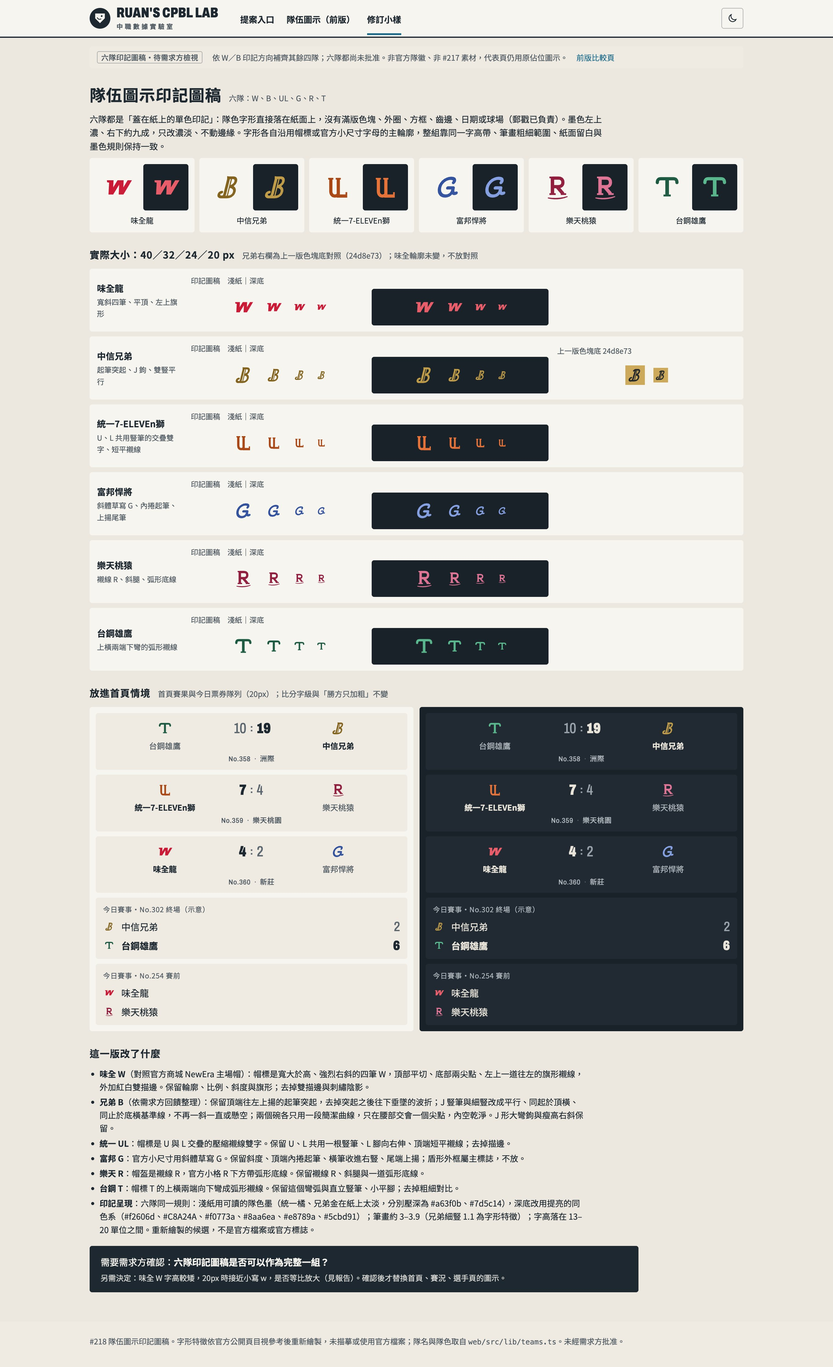
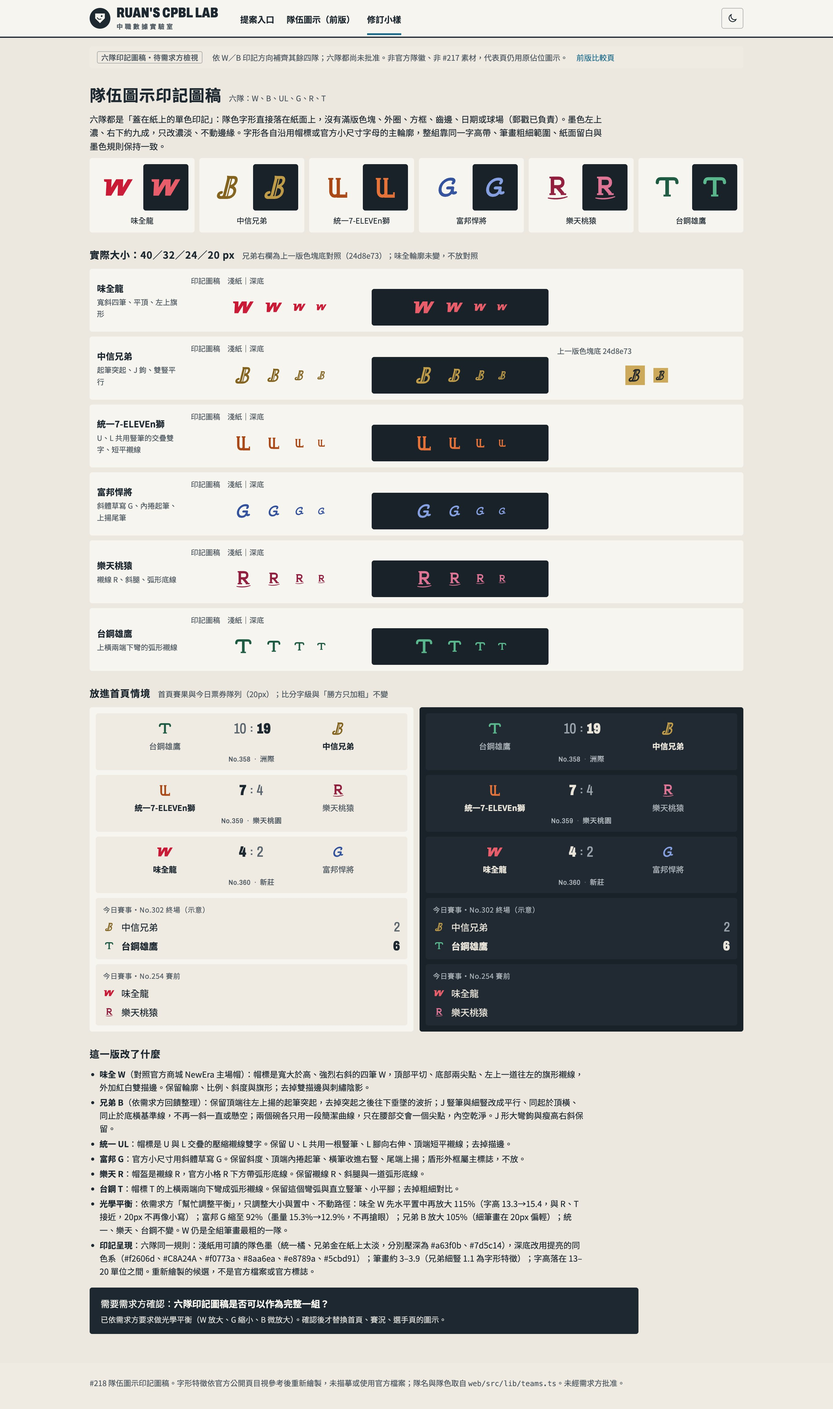
docs: optically balance #218 team stamp sizes
需求方要求調整六隊印記平衡（W 偏小、G 偏重）。只包一層尺寸／置中 transform、不動路徑與墨色：
W 水平置中後放大 115%（字高 13.3→15.4）、G 縮至 92%（墨量 15.3%→12.9%）、B 放大 105%
（細筆畫在 20px 偏輕）；UL、R、T 不變。比較頁 SVG 引用加版本參數避免舊快取，並補平衡說明。

diff --git a/design/brand-218/proposal/team-icons-refined.html b/design/brand-218/proposal/team-icons-refined.html
@@ -87,44 +87,44 @@
   <div class="sh"><h1>隊伍圖示印記圖稿</h1><span class="cue">六隊：W、B、UL、G、R、T</span></div>
   <p class="lead">六隊都是「蓋在紙上的單色印記」：隊色字形直接落在紙面上，沒有滿版色塊、外圈、方框、齒邊、日期或球場（郵戳已負責）。墨色左上濃、右下約九成，只改濃淡、不動邊緣。字形各自沿用帽標或官方小尺寸字母的主輪廓，整組靠同一字高帶、筆畫粗細範圍、紙面留白與墨色規則保持一致。</p>
 
-  <div class="six"><figure><div class="pair2"><div class="sw-light"><svg class="ic s56 st-wc" role="img" aria-label="味全龍 印記圖稿"><use href="assets/team-icons/refined-AAA011.svg#mark"/></svg></div><div class="sw-dark"><svg class="ic s56 st-wc" aria-hidden="true"><use href="assets/team-icons/refined-AAA011.svg#mark"/></svg></div></div><figcaption>味全龍</figcaption></figure><figure><div class="pair2"><div class="sw-light"><svg class="ic s56 st-br" role="img" aria-label="中信兄弟 印記圖稿"><use href="assets/team-icons/refined-ACN011.svg#mark"/></svg></div><div class="sw-dark"><svg class="ic s56 st-br" aria-hidden="true"><use href="assets/team-icons/refined-ACN011.svg#mark"/></svg></div></div><figcaption>中信兄弟</figcaption></figure><figure><div class="pair2"><div class="sw-light"><svg class="ic s56 st-ul" role="img" aria-label="統一7-ELEVEn獅 印記圖稿"><use href="assets/team-icons/refined-ADD011.svg#mark"/></svg></div><div class="sw-dark"><svg class="ic s56 st-ul" aria-hidden="true"><use href="assets/team-icons/refined-ADD011.svg#mark"/></svg></div></div><figcaption>統一7-ELEVEn獅</figcaption></figure><figure><div class="pair2"><div class="sw-light"><svg class="ic s56 st-fg" role="img" aria-label="富邦悍將 印記圖稿"><use href="assets/team-icons/refined-AEO011.svg#mark"/></svg></div><div class="sw-dark"><svg class="ic s56 st-fg" aria-hidden="true"><use href="assets/team-icons/refined-AEO011.svg#mark"/></svg></div></div><figcaption>富邦悍將</figcaption></figure><figure><div class="pair2"><div class="sw-light"><svg class="ic s56 st-rm" role="img" aria-label="樂天桃猿 印記圖稿"><use href="assets/team-icons/refined-AJL011.svg#mark"/></svg></div><div class="sw-dark"><svg class="ic s56 st-rm" aria-hidden="true"><use href="assets/team-icons/refined-AJL011.svg#mark"/></svg></div></div><figcaption>樂天桃猿</figcaption></figure><figure><div class="pair2"><div class="sw-light"><svg class="ic s56 st-tsg" role="img" aria-label="台鋼雄鷹 印記圖稿"><use href="assets/team-icons/refined-AKP011.svg#mark"/></svg></div><div class="sw-dark"><svg class="ic s56 st-tsg" aria-hidden="true"><use href="assets/team-icons/refined-AKP011.svg#mark"/></svg></div></div><figcaption>台鋼雄鷹</figcaption></figure></div>
+  <div class="six"><figure><div class="pair2"><div class="sw-light"><svg class="ic s56 st-wc" role="img" aria-label="味全龍 印記圖稿"><use href="assets/team-icons/refined-AAA011.svg?v=bal1#mark"/></svg></div><div class="sw-dark"><svg class="ic s56 st-wc" aria-hidden="true"><use href="assets/team-icons/refined-AAA011.svg?v=bal1#mark"/></svg></div></div><figcaption>味全龍</figcaption></figure><figure><div class="pair2"><div class="sw-light"><svg class="ic s56 st-br" role="img" aria-label="中信兄弟 印記圖稿"><use href="assets/team-icons/refined-ACN011.svg?v=bal1#mark"/></svg></div><div class="sw-dark"><svg class="ic s56 st-br" aria-hidden="true"><use href="assets/team-icons/refined-ACN011.svg?v=bal1#mark"/></svg></div></div><figcaption>中信兄弟</figcaption></figure><figure><div class="pair2"><div class="sw-light"><svg class="ic s56 st-ul" role="img" aria-label="統一7-ELEVEn獅 印記圖稿"><use href="assets/team-icons/refined-ADD011.svg?v=bal1#mark"/></svg></div><div class="sw-dark"><svg class="ic s56 st-ul" aria-hidden="true"><use href="assets/team-icons/refined-ADD011.svg?v=bal1#mark"/></svg></div></div><figcaption>統一7-ELEVEn獅</figcaption></figure><figure><div class="pair2"><div class="sw-light"><svg class="ic s56 st-fg" role="img" aria-label="富邦悍將 印記圖稿"><use href="assets/team-icons/refined-AEO011.svg?v=bal1#mark"/></svg></div><div class="sw-dark"><svg class="ic s56 st-fg" aria-hidden="true"><use href="assets/team-icons/refined-AEO011.svg?v=bal1#mark"/></svg></div></div><figcaption>富邦悍將</figcaption></figure><figure><div class="pair2"><div class="sw-light"><svg class="ic s56 st-rm" role="img" aria-label="樂天桃猿 印記圖稿"><use href="assets/team-icons/refined-AJL011.svg?v=bal1#mark"/></svg></div><div class="sw-dark"><svg class="ic s56 st-rm" aria-hidden="true"><use href="assets/team-icons/refined-AJL011.svg?v=bal1#mark"/></svg></div></div><figcaption>樂天桃猿</figcaption></figure><figure><div class="pair2"><div class="sw-light"><svg class="ic s56 st-tsg" role="img" aria-label="台鋼雄鷹 印記圖稿"><use href="assets/team-icons/refined-AKP011.svg?v=bal1#mark"/></svg></div><div class="sw-dark"><svg class="ic s56 st-tsg" aria-hidden="true"><use href="assets/team-icons/refined-AKP011.svg?v=bal1#mark"/></svg></div></div><figcaption>台鋼雄鷹</figcaption></figure></div>
 
   <div class="sh s"><h2>實際大小：40／32／24／20 px</h2><span class="cue">兄弟右欄為上一版色塊底對照（24d8e73）；味全輪廓未變，不放對照</span></div>
   <div class="trows">
     <div class="trow"><div class="who"><b>味全龍</b><span>寬斜四筆、平頂、左上旗形</span></div>
-      <div class="set" data-set="印記圖稿　淺紙｜深底"><div class="pair"><div class="strip sw-light"><svg class="ic s40 st-wc" role="img" aria-label="味全龍 印記圖稿 40px"><use href="assets/team-icons/refined-AAA011.svg#mark"/></svg><svg class="ic s32 st-wc" role="img" aria-label="味全龍 印記圖稿 32px"><use href="assets/team-icons/refined-AAA011.svg#mark"/></svg><svg class="ic s24 st-wc" role="img" aria-label="味全龍 印記圖稿 24px"><use href="assets/team-icons/refined-AAA011.svg#mark"/></svg><svg class="ic s20 st-wc" role="img" aria-label="味全龍 印記圖稿 20px"><use href="assets/team-icons/refined-AAA011.svg#mark"/></svg></div><div class="strip sw-dark"><svg class="ic s40 st-wc" aria-hidden="true"><use href="assets/team-icons/refined-AAA011.svg#mark"/></svg><svg class="ic s32 st-wc" aria-hidden="true"><use href="assets/team-icons/refined-AAA011.svg#mark"/></svg><svg class="ic s24 st-wc" aria-hidden="true"><use href="assets/team-icons/refined-AAA011.svg#mark"/></svg><svg class="ic s20 st-wc" aria-hidden="true"><use href="assets/team-icons/refined-AAA011.svg#mark"/></svg></div></div></div>
+      <div class="set" data-set="印記圖稿　淺紙｜深底"><div class="pair"><div class="strip sw-light"><svg class="ic s40 st-wc" role="img" aria-label="味全龍 印記圖稿 40px"><use href="assets/team-icons/refined-AAA011.svg?v=bal1#mark"/></svg><svg class="ic s32 st-wc" role="img" aria-label="味全龍 印記圖稿 32px"><use href="assets/team-icons/refined-AAA011.svg?v=bal1#mark"/></svg><svg class="ic s24 st-wc" role="img" aria-label="味全龍 印記圖稿 24px"><use href="assets/team-icons/refined-AAA011.svg?v=bal1#mark"/></svg><svg class="ic s20 st-wc" role="img" aria-label="味全龍 印記圖稿 20px"><use href="assets/team-icons/refined-AAA011.svg?v=bal1#mark"/></svg></div><div class="strip sw-dark"><svg class="ic s40 st-wc" aria-hidden="true"><use href="assets/team-icons/refined-AAA011.svg?v=bal1#mark"/></svg><svg class="ic s32 st-wc" aria-hidden="true"><use href="assets/team-icons/refined-AAA011.svg?v=bal1#mark"/></svg><svg class="ic s24 st-wc" aria-hidden="true"><use href="assets/team-icons/refined-AAA011.svg?v=bal1#mark"/></svg><svg class="ic s20 st-wc" aria-hidden="true"><use href="assets/team-icons/refined-AAA011.svg?v=bal1#mark"/></svg></div></div></div>
     </div>
     <div class="trow"><div class="who"><b>中信兄弟</b><span>起筆突起、J 鉤、雙豎平行</span></div>
-      <div class="set" data-set="印記圖稿　淺紙｜深底"><div class="pair"><div class="strip sw-light"><svg class="ic s40 st-br" role="img" aria-label="中信兄弟 印記圖稿 40px"><use href="assets/team-icons/refined-ACN011.svg#mark"/></svg><svg class="ic s32 st-br" role="img" aria-label="中信兄弟 印記圖稿 32px"><use href="assets/team-icons/refined-ACN011.svg#mark"/></svg><svg class="ic s24 st-br" role="img" aria-label="中信兄弟 印記圖稿 24px"><use href="assets/team-icons/refined-ACN011.svg#mark"/></svg><svg class="ic s20 st-br" role="img" aria-label="中信兄弟 印記圖稿 20px"><use href="assets/team-icons/refined-ACN011.svg#mark"/></svg></div><div class="strip sw-dark"><svg class="ic s40 st-br" aria-hidden="true"><use href="assets/team-icons/refined-ACN011.svg#mark"/></svg><svg class="ic s32 st-br" aria-hidden="true"><use href="assets/team-icons/refined-ACN011.svg#mark"/></svg><svg class="ic s24 st-br" aria-hidden="true"><use href="assets/team-icons/refined-ACN011.svg#mark"/></svg><svg class="ic s20 st-br" aria-hidden="true"><use href="assets/team-icons/refined-ACN011.svg#mark"/></svg></div></div></div>
+      <div class="set" data-set="印記圖稿　淺紙｜深底"><div class="pair"><div class="strip sw-light"><svg class="ic s40 st-br" role="img" aria-label="中信兄弟 印記圖稿 40px"><use href="assets/team-icons/refined-ACN011.svg?v=bal1#mark"/></svg><svg class="ic s32 st-br" role="img" aria-label="中信兄弟 印記圖稿 32px"><use href="assets/team-icons/refined-ACN011.svg?v=bal1#mark"/></svg><svg class="ic s24 st-br" role="img" aria-label="中信兄弟 印記圖稿 24px"><use href="assets/team-icons/refined-ACN011.svg?v=bal1#mark"/></svg><svg class="ic s20 st-br" role="img" aria-label="中信兄弟 印記圖稿 20px"><use href="assets/team-icons/refined-ACN011.svg?v=bal1#mark"/></svg></div><div class="strip sw-dark"><svg class="ic s40 st-br" aria-hidden="true"><use href="assets/team-icons/refined-ACN011.svg?v=bal1#mark"/></svg><svg class="ic s32 st-br" aria-hidden="true"><use href="assets/team-icons/refined-ACN011.svg?v=bal1#mark"/></svg><svg class="ic s24 st-br" aria-hidden="true"><use href="assets/team-icons/refined-ACN011.svg?v=bal1#mark"/></svg><svg class="ic s20 st-br" aria-hidden="true"><use href="assets/team-icons/refined-ACN011.svg?v=bal1#mark"/></svg></div></div></div>
       <div class="set old" data-set="上一版色塊底 24d8e73"><div class="strip sw-light"><svg class="ic s32" aria-hidden="true"><use href="assets/team-icons/refined-ACN011-prev.svg#mark"/></svg><svg class="ic s24" aria-hidden="true"><use href="assets/team-icons/refined-ACN011-prev.svg#mark"/></svg></div></div>
     </div>
     <div class="trow"><div class="who"><b>統一7-ELEVEn獅</b><span>U、L 共用豎筆的交疊雙字、短平襯線</span></div>
-      <div class="set" data-set="印記圖稿　淺紙｜深底"><div class="pair"><div class="strip sw-light"><svg class="ic s40 st-ul" role="img" aria-label="統一7-ELEVEn獅 印記圖稿 40px"><use href="assets/team-icons/refined-ADD011.svg#mark"/></svg><svg class="ic s32 st-ul" role="img" aria-label="統一7-ELEVEn獅 印記圖稿 32px"><use href="assets/team-icons/refined-ADD011.svg#mark"/></svg><svg class="ic s24 st-ul" role="img" aria-label="統一7-ELEVEn獅 印記圖稿 24px"><use href="assets/team-icons/refined-ADD011.svg#mark"/></svg><svg class="ic s20 st-ul" role="img" aria-label="統一7-ELEVEn獅 印記圖稿 20px"><use href="assets/team-icons/refined-ADD011.svg#mark"/></svg></div><div class="strip sw-dark"><svg class="ic s40 st-ul" aria-hidden="true"><use href="assets/team-icons/refined-ADD011.svg#mark"/></svg><svg class="ic s32 st-ul" aria-hidden="true"><use href="assets/team-icons/refined-ADD011.svg#mark"/></svg><svg class="ic s24 st-ul" aria-hidden="true"><use href="assets/team-icons/refined-ADD011.svg#mark"/></svg><svg class="ic s20 st-ul" aria-hidden="true"><use href="assets/team-icons/refined-ADD011.svg#mark"/></svg></div></div></div>
+      <div class="set" data-set="印記圖稿　淺紙｜深底"><div class="pair"><div class="strip sw-light"><svg class="ic s40 st-ul" role="img" aria-label="統一7-ELEVEn獅 印記圖稿 40px"><use href="assets/team-icons/refined-ADD011.svg?v=bal1#mark"/></svg><svg class="ic s32 st-ul" role="img" aria-label="統一7-ELEVEn獅 印記圖稿 32px"><use href="assets/team-icons/refined-ADD011.svg?v=bal1#mark"/></svg><svg class="ic s24 st-ul" role="img" aria-label="統一7-ELEVEn獅 印記圖稿 24px"><use href="assets/team-icons/refined-ADD011.svg?v=bal1#mark"/></svg><svg class="ic s20 st-ul" role="img" aria-label="統一7-ELEVEn獅 印記圖稿 20px"><use href="assets/team-icons/refined-ADD011.svg?v=bal1#mark"/></svg></div><div class="strip sw-dark"><svg class="ic s40 st-ul" aria-hidden="true"><use href="assets/team-icons/refined-ADD011.svg?v=bal1#mark"/></svg><svg class="ic s32 st-ul" aria-hidden="true"><use href="assets/team-icons/refined-ADD011.svg?v=bal1#mark"/></svg><svg class="ic s24 st-ul" aria-hidden="true"><use href="assets/team-icons/refined-ADD011.svg?v=bal1#mark"/></svg><svg class="ic s20 st-ul" aria-hidden="true"><use href="assets/team-icons/refined-ADD011.svg?v=bal1#mark"/></svg></div></div></div>
     </div>
     <div class="trow"><div class="who"><b>富邦悍將</b><span>斜體草寫 G、內捲起筆、上揚尾筆</span></div>
-      <div class="set" data-set="印記圖稿　淺紙｜深底"><div class="pair"><div class="strip sw-light"><svg class="ic s40 st-fg" role="img" aria-label="富邦悍將 印記圖稿 40px"><use href="assets/team-icons/refined-AEO011.svg#mark"/></svg><svg class="ic s32 st-fg" role="img" aria-label="富邦悍將 印記圖稿 32px"><use href="assets/team-icons/refined-AEO011.svg#mark"/></svg><svg class="ic s24 st-fg" role="img" aria-label="富邦悍將 印記圖稿 24px"><use href="assets/team-icons/refined-AEO011.svg#mark"/></svg><svg class="ic s20 st-fg" role="img" aria-label="富邦悍將 印記圖稿 20px"><use href="assets/team-icons/refined-AEO011.svg#mark"/></svg></div><div class="strip sw-dark"><svg class="ic s40 st-fg" aria-hidden="true"><use href="assets/team-icons/refined-AEO011.svg#mark"/></svg><svg class="ic s32 st-fg" aria-hidden="true"><use href="assets/team-icons/refined-AEO011.svg#mark"/></svg><svg class="ic s24 st-fg" aria-hidden="true"><use href="assets/team-icons/refined-AEO011.svg#mark"/></svg><svg class="ic s20 st-fg" aria-hidden="true"><use href="assets/team-icons/refined-AEO011.svg#mark"/></svg></div></div></div>
+      <div class="set" data-set="印記圖稿　淺紙｜深底"><div class="pair"><div class="strip sw-light"><svg class="ic s40 st-fg" role="img" aria-label="富邦悍將 印記圖稿 40px"><use href="assets/team-icons/refined-AEO011.svg?v=bal1#mark"/></svg><svg class="ic s32 st-fg" role="img" aria-label="富邦悍將 印記圖稿 32px"><use href="assets/team-icons/refined-AEO011.svg?v=bal1#mark"/></svg><svg class="ic s24 st-fg" role="img" aria-label="富邦悍將 印記圖稿 24px"><use href="assets/team-icons/refined-AEO011.svg?v=bal1#mark"/></svg><svg class="ic s20 st-fg" role="img" aria-label="富邦悍將 印記圖稿 20px"><use href="assets/team-icons/refined-AEO011.svg?v=bal1#mark"/></svg></div><div class="strip sw-dark"><svg class="ic s40 st-fg" aria-hidden="true"><use href="assets/team-icons/refined-AEO011.svg?v=bal1#mark"/></svg><svg class="ic s32 st-fg" aria-hidden="true"><use href="assets/team-icons/refined-AEO011.svg?v=bal1#mark"/></svg><svg class="ic s24 st-fg" aria-hidden="true"><use href="assets/team-icons/refined-AEO011.svg?v=bal1#mark"/></svg><svg class="ic s20 st-fg" aria-hidden="true"><use href="assets/team-icons/refined-AEO011.svg?v=bal1#mark"/></svg></div></div></div>
     </div>
     <div class="trow"><div class="who"><b>樂天桃猿</b><span>襯線 R、斜腿、弧形底線</span></div>
-      <div class="set" data-set="印記圖稿　淺紙｜深底"><div class="pair"><div class="strip sw-light"><svg class="ic s40 st-rm" role="img" aria-label="樂天桃猿 印記圖稿 40px"><use href="assets/team-icons/refined-AJL011.svg#mark"/></svg><svg class="ic s32 st-rm" role="img" aria-label="樂天桃猿 印記圖稿 32px"><use href="assets/team-icons/refined-AJL011.svg#mark"/></svg><svg class="ic s24 st-rm" role="img" aria-label="樂天桃猿 印記圖稿 24px"><use href="assets/team-icons/refined-AJL011.svg#mark"/></svg><svg class="ic s20 st-rm" role="img" aria-label="樂天桃猿 印記圖稿 20px"><use href="assets/team-icons/refined-AJL011.svg#mark"/></svg></div><div class="strip sw-dark"><svg class="ic s40 st-rm" aria-hidden="true"><use href="assets/team-icons/refined-AJL011.svg#mark"/></svg><svg class="ic s32 st-rm" aria-hidden="true"><use href="assets/team-icons/refined-AJL011.svg#mark"/></svg><svg class="ic s24 st-rm" aria-hidden="true"><use href="assets/team-icons/refined-AJL011.svg#mark"/></svg><svg class="ic s20 st-rm" aria-hidden="true"><use href="assets/team-icons/refined-AJL011.svg#mark"/></svg></div></div></div>
+      <div class="set" data-set="印記圖稿　淺紙｜深底"><div class="pair"><div class="strip sw-light"><svg class="ic s40 st-rm" role="img" aria-label="樂天桃猿 印記圖稿 40px"><use href="assets/team-icons/refined-AJL011.svg?v=bal1#mark"/></svg><svg class="ic s32 st-rm" role="img" aria-label="樂天桃猿 印記圖稿 32px"><use href="assets/team-icons/refined-AJL011.svg?v=bal1#mark"/></svg><svg class="ic s24 st-rm" role="img" aria-label="樂天桃猿 印記圖稿 24px"><use href="assets/team-icons/refined-AJL011.svg?v=bal1#mark"/></svg><svg class="ic s20 st-rm" role="img" aria-label="樂天桃猿 印記圖稿 20px"><use href="assets/team-icons/refined-AJL011.svg?v=bal1#mark"/></svg></div><div class="strip sw-dark"><svg class="ic s40 st-rm" aria-hidden="true"><use href="assets/team-icons/refined-AJL011.svg?v=bal1#mark"/></svg><svg class="ic s32 st-rm" aria-hidden="true"><use href="assets/team-icons/refined-AJL011.svg?v=bal1#mark"/></svg><svg class="ic s24 st-rm" aria-hidden="true"><use href="assets/team-icons/refined-AJL011.svg?v=bal1#mark"/></svg><svg class="ic s20 st-rm" aria-hidden="true"><use href="assets/team-icons/refined-AJL011.svg?v=bal1#mark"/></svg></div></div></div>
     </div>
     <div class="trow"><div class="who"><b>台鋼雄鷹</b><span>上橫兩端下彎的弧形襯線</span></div>
-      <div class="set" data-set="印記圖稿　淺紙｜深底"><div class="pair"><div class="strip sw-light"><svg class="ic s40 st-tsg" role="img" aria-label="台鋼雄鷹 印記圖稿 40px"><use href="assets/team-icons/refined-AKP011.svg#mark"/></svg><svg class="ic s32 st-tsg" role="img" aria-label="台鋼雄鷹 印記圖稿 32px"><use href="assets/team-icons/refined-AKP011.svg#mark"/></svg><svg class="ic s24 st-tsg" role="img" aria-label="台鋼雄鷹 印記圖稿 24px"><use href="assets/team-icons/refined-AKP011.svg#mark"/></svg><svg class="ic s20 st-tsg" role="img" aria-label="台鋼雄鷹 印記圖稿 20px"><use href="assets/team-icons/refined-AKP011.svg#mark"/></svg></div><div class="strip sw-dark"><svg class="ic s40 st-tsg" aria-hidden="true"><use href="assets/team-icons/refined-AKP011.svg#mark"/></svg><svg class="ic s32 st-tsg" aria-hidden="true"><use href="assets/team-icons/refined-AKP011.svg#mark"/></svg><svg class="ic s24 st-tsg" aria-hidden="true"><use href="assets/team-icons/refined-AKP011.svg#mark"/></svg><svg class="ic s20 st-tsg" aria-hidden="true"><use href="assets/team-icons/refined-AKP011.svg#mark"/></svg></div></div></div>
+      <div class="set" data-set="印記圖稿　淺紙｜深底"><div class="pair"><div class="strip sw-light"><svg class="ic s40 st-tsg" role="img" aria-label="台鋼雄鷹 印記圖稿 40px"><use href="assets/team-icons/refined-AKP011.svg?v=bal1#mark"/></svg><svg class="ic s32 st-tsg" role="img" aria-label="台鋼雄鷹 印記圖稿 32px"><use href="assets/team-icons/refined-AKP011.svg?v=bal1#mark"/></svg><svg class="ic s24 st-tsg" role="img" aria-label="台鋼雄鷹 印記圖稿 24px"><use href="assets/team-icons/refined-AKP011.svg?v=bal1#mark"/></svg><svg class="ic s20 st-tsg" role="img" aria-label="台鋼雄鷹 印記圖稿 20px"><use href="assets/team-icons/refined-AKP011.svg?v=bal1#mark"/></svg></div><div class="strip sw-dark"><svg class="ic s40 st-tsg" aria-hidden="true"><use href="assets/team-icons/refined-AKP011.svg?v=bal1#mark"/></svg><svg class="ic s32 st-tsg" aria-hidden="true"><use href="assets/team-icons/refined-AKP011.svg?v=bal1#mark"/></svg><svg class="ic s24 st-tsg" aria-hidden="true"><use href="assets/team-icons/refined-AKP011.svg?v=bal1#mark"/></svg><svg class="ic s20 st-tsg" aria-hidden="true"><use href="assets/team-icons/refined-AKP011.svg?v=bal1#mark"/></svg></div></div></div>
     </div>
   </div>
 
   <div class="sh s"><h2>放進首頁情境</h2><span class="cue">首頁賽果與今日票券隊列（20px）；比分字級與「勝方只加粗」不變</span></div>
   <div class="demo-wrap">
       <div class="card sw-light">
-        <a aria-label="No.358 洲際，終場：台鋼雄鷹 10 比 19 中信兄弟，中信兄弟勝"><span class="score stack" aria-hidden="true"><svg class="ti a st-tsg" aria-hidden="true"><use href="assets/team-icons/refined-AKP011.svg#mark"/></svg><span class="n a">10</span><span class="colon">:</span><span class="n h w">19</span><svg class="ti h st-br"><use href="assets/team-icons/refined-ACN011.svg#mark"/></svg><span class="nm a">台鋼雄鷹</span><span class="nm h w">中信兄弟</span></span><span class="serial" aria-hidden="true"><span>No.358</span><span>洲際</span></span></a>
-        <a aria-label="No.359 樂天桃園，終場：統一7-ELEVEn獅 7 比 4 樂天桃猿，統一7-ELEVEn獅勝"><span class="score stack" aria-hidden="true"><svg class="ti a st-ul" aria-hidden="true"><use href="assets/team-icons/refined-ADD011.svg#mark"/></svg><span class="n a w">7</span><span class="colon">:</span><span class="n h">4</span><svg class="ti h st-rm" aria-hidden="true"><use href="assets/team-icons/refined-AJL011.svg#mark"/></svg><span class="nm a w">統一7-ELEVEn獅</span><span class="nm h">樂天桃猿</span></span><span class="serial" aria-hidden="true"><span>No.359</span><span>樂天桃園</span></span></a>
-        <a aria-label="No.360 新莊，終場：味全龍 4 比 2 富邦悍將，味全龍勝"><span class="score stack" aria-hidden="true"><svg class="ti a st-wc"><use href="assets/team-icons/refined-AAA011.svg#mark"/></svg><span class="n a w">4</span><span class="colon">:</span><span class="n h">2</span><svg class="ti h st-fg" aria-hidden="true"><use href="assets/team-icons/refined-AEO011.svg#mark"/></svg><span class="nm a w">味全龍</span><span class="nm h">富邦悍將</span></span><span class="serial" aria-hidden="true"><span>No.360</span><span>新莊</span></span></a>
-        <div class="tk"><span class="cap">今日賽事・No.302 終場（示意）</span><span class="tm"><svg class="ic st-br" aria-hidden="true"><use href="assets/team-icons/refined-ACN011.svg#mark"/></svg><span class="nm">中信兄弟</span><span class="n">2</span></span><span class="tm w"><svg class="ic st-tsg" aria-hidden="true"><use href="assets/team-icons/refined-AKP011.svg#mark"/></svg><span class="nm">台鋼雄鷹</span><span class="n">6</span></span></div><div class="tk"><span class="cap">今日賽事・No.254 賽前</span><span class="tm"><svg class="ic st-wc" aria-hidden="true"><use href="assets/team-icons/refined-AAA011.svg#mark"/></svg><span class="nm">味全龍</span><span class="n"></span></span><span class="tm"><svg class="ic st-rm" aria-hidden="true"><use href="assets/team-icons/refined-AJL011.svg#mark"/></svg><span class="nm">樂天桃猿</span><span class="n"></span></span></div>
+        <a aria-label="No.358 洲際，終場：台鋼雄鷹 10 比 19 中信兄弟，中信兄弟勝"><span class="score stack" aria-hidden="true"><svg class="ti a st-tsg" aria-hidden="true"><use href="assets/team-icons/refined-AKP011.svg?v=bal1#mark"/></svg><span class="n a">10</span><span class="colon">:</span><span class="n h w">19</span><svg class="ti h st-br"><use href="assets/team-icons/refined-ACN011.svg?v=bal1#mark"/></svg><span class="nm a">台鋼雄鷹</span><span class="nm h w">中信兄弟</span></span><span class="serial" aria-hidden="true"><span>No.358</span><span>洲際</span></span></a>
+        <a aria-label="No.359 樂天桃園，終場：統一7-ELEVEn獅 7 比 4 樂天桃猿，統一7-ELEVEn獅勝"><span class="score stack" aria-hidden="true"><svg class="ti a st-ul" aria-hidden="true"><use href="assets/team-icons/refined-ADD011.svg?v=bal1#mark"/></svg><span class="n a w">7</span><span class="colon">:</span><span class="n h">4</span><svg class="ti h st-rm" aria-hidden="true"><use href="assets/team-icons/refined-AJL011.svg?v=bal1#mark"/></svg><span class="nm a w">統一7-ELEVEn獅</span><span class="nm h">樂天桃猿</span></span><span class="serial" aria-hidden="true"><span>No.359</span><span>樂天桃園</span></span></a>
+        <a aria-label="No.360 新莊，終場：味全龍 4 比 2 富邦悍將，味全龍勝"><span class="score stack" aria-hidden="true"><svg class="ti a st-wc"><use href="assets/team-icons/refined-AAA011.svg?v=bal1#mark"/></svg><span class="n a w">4</span><span class="colon">:</span><span class="n h">2</span><svg class="ti h st-fg" aria-hidden="true"><use href="assets/team-icons/refined-AEO011.svg?v=bal1#mark"/></svg><span class="nm a w">味全龍</span><span class="nm h">富邦悍將</span></span><span class="serial" aria-hidden="true"><span>No.360</span><span>新莊</span></span></a>
+        <div class="tk"><span class="cap">今日賽事・No.302 終場（示意）</span><span class="tm"><svg class="ic st-br" aria-hidden="true"><use href="assets/team-icons/refined-ACN011.svg?v=bal1#mark"/></svg><span class="nm">中信兄弟</span><span class="n">2</span></span><span class="tm w"><svg class="ic st-tsg" aria-hidden="true"><use href="assets/team-icons/refined-AKP011.svg?v=bal1#mark"/></svg><span class="nm">台鋼雄鷹</span><span class="n">6</span></span></div><div class="tk"><span class="cap">今日賽事・No.254 賽前</span><span class="tm"><svg class="ic st-wc" aria-hidden="true"><use href="assets/team-icons/refined-AAA011.svg?v=bal1#mark"/></svg><span class="nm">味全龍</span><span class="n"></span></span><span class="tm"><svg class="ic st-rm" aria-hidden="true"><use href="assets/team-icons/refined-AJL011.svg?v=bal1#mark"/></svg><span class="nm">樂天桃猿</span><span class="n"></span></span></div>
       </div>
       <div class="card sw-dark">
-        <a aria-label="No.358 洲際，終場：台鋼雄鷹 10 比 19 中信兄弟，中信兄弟勝"><span class="score stack" aria-hidden="true"><svg class="ti a st-tsg" aria-hidden="true"><use href="assets/team-icons/refined-AKP011.svg#mark"/></svg><span class="n a">10</span><span class="colon">:</span><span class="n h w">19</span><svg class="ti h st-br"><use href="assets/team-icons/refined-ACN011.svg#mark"/></svg><span class="nm a">台鋼雄鷹</span><span class="nm h w">中信兄弟</span></span><span class="serial" aria-hidden="true"><span>No.358</span><span>洲際</span></span></a>
-        <a aria-label="No.359 樂天桃園，終場：統一7-ELEVEn獅 7 比 4 樂天桃猿，統一7-ELEVEn獅勝"><span class="score stack" aria-hidden="true"><svg class="ti a st-ul" aria-hidden="true"><use href="assets/team-icons/refined-ADD011.svg#mark"/></svg><span class="n a w">7</span><span class="colon">:</span><span class="n h">4</span><svg class="ti h st-rm" aria-hidden="true"><use href="assets/team-icons/refined-AJL011.svg#mark"/></svg><span class="nm a w">統一7-ELEVEn獅</span><span class="nm h">樂天桃猿</span></span><span class="serial" aria-hidden="true"><span>No.359</span><span>樂天桃園</span></span></a>
-        <a aria-label="No.360 新莊，終場：味全龍 4 比 2 富邦悍將，味全龍勝"><span class="score stack" aria-hidden="true"><svg class="ti a st-wc"><use href="assets/team-icons/refined-AAA011.svg#mark"/></svg><span class="n a w">4</span><span class="colon">:</span><span class="n h">2</span><svg class="ti h st-fg" aria-hidden="true"><use href="assets/team-icons/refined-AEO011.svg#mark"/></svg><span class="nm a w">味全龍</span><span class="nm h">富邦悍將</span></span><span class="serial" aria-hidden="true"><span>No.360</span><span>新莊</span></span></a>
-        <div class="tk"><span class="cap">今日賽事・No.302 終場（示意）</span><span class="tm"><svg class="ic st-br" aria-hidden="true"><use href="assets/team-icons/refined-ACN011.svg#mark"/></svg><span class="nm">中信兄弟</span><span class="n">2</span></span><span class="tm w"><svg class="ic st-tsg" aria-hidden="true"><use href="assets/team-icons/refined-AKP011.svg#mark"/></svg><span class="nm">台鋼雄鷹</span><span class="n">6</span></span></div><div class="tk"><span class="cap">今日賽事・No.254 賽前</span><span class="tm"><svg class="ic st-wc" aria-hidden="true"><use href="assets/team-icons/refined-AAA011.svg#mark"/></svg><span class="nm">味全龍</span><span class="n"></span></span><span class="tm"><svg class="ic st-rm" aria-hidden="true"><use href="assets/team-icons/refined-AJL011.svg#mark"/></svg><span class="nm">樂天桃猿</span><span class="n"></span></span></div>
+        <a aria-label="No.358 洲際，終場：台鋼雄鷹 10 比 19 中信兄弟，中信兄弟勝"><span class="score stack" aria-hidden="true"><svg class="ti a st-tsg" aria-hidden="true"><use href="assets/team-icons/refined-AKP011.svg?v=bal1#mark"/></svg><span class="n a">10</span><span class="colon">:</span><span class="n h w">19</span><svg class="ti h st-br"><use href="assets/team-icons/refined-ACN011.svg?v=bal1#mark"/></svg><span class="nm a">台鋼雄鷹</span><span class="nm h w">中信兄弟</span></span><span class="serial" aria-hidden="true"><span>No.358</span><span>洲際</span></span></a>
+        <a aria-label="No.359 樂天桃園，終場：統一7-ELEVEn獅 7 比 4 樂天桃猿，統一7-ELEVEn獅勝"><span class="score stack" aria-hidden="true"><svg class="ti a st-ul" aria-hidden="true"><use href="assets/team-icons/refined-ADD011.svg?v=bal1#mark"/></svg><span class="n a w">7</span><span class="colon">:</span><span class="n h">4</span><svg class="ti h st-rm" aria-hidden="true"><use href="assets/team-icons/refined-AJL011.svg?v=bal1#mark"/></svg><span class="nm a w">統一7-ELEVEn獅</span><span class="nm h">樂天桃猿</span></span><span class="serial" aria-hidden="true"><span>No.359</span><span>樂天桃園</span></span></a>
+        <a aria-label="No.360 新莊，終場：味全龍 4 比 2 富邦悍將，味全龍勝"><span class="score stack" aria-hidden="true"><svg class="ti a st-wc"><use href="assets/team-icons/refined-AAA011.svg?v=bal1#mark"/></svg><span class="n a w">4</span><span class="colon">:</span><span class="n h">2</span><svg class="ti h st-fg" aria-hidden="true"><use href="assets/team-icons/refined-AEO011.svg?v=bal1#mark"/></svg><span class="nm a w">味全龍</span><span class="nm h">富邦悍將</span></span><span class="serial" aria-hidden="true"><span>No.360</span><span>新莊</span></span></a>
+        <div class="tk"><span class="cap">今日賽事・No.302 終場（示意）</span><span class="tm"><svg class="ic st-br" aria-hidden="true"><use href="assets/team-icons/refined-ACN011.svg?v=bal1#mark"/></svg><span class="nm">中信兄弟</span><span class="n">2</span></span><span class="tm w"><svg class="ic st-tsg" aria-hidden="true"><use href="assets/team-icons/refined-AKP011.svg?v=bal1#mark"/></svg><span class="nm">台鋼雄鷹</span><span class="n">6</span></span></div><div class="tk"><span class="cap">今日賽事・No.254 賽前</span><span class="tm"><svg class="ic st-wc" aria-hidden="true"><use href="assets/team-icons/refined-AAA011.svg?v=bal1#mark"/></svg><span class="nm">味全龍</span><span class="n"></span></span><span class="tm"><svg class="ic st-rm" aria-hidden="true"><use href="assets/team-icons/refined-AJL011.svg?v=bal1#mark"/></svg><span class="nm">樂天桃猿</span><span class="n"></span></span></div>
       </div>
   </div>
 
@@ -133,9 +133,9 @@
     <ul>
       <li><b>味全 W</b>（對照官方商城 NewEra 主場帽）：帽標是寬大於高、強烈右斜的四筆 W，頂部平切、底部兩尖點、左上一道往左的旗形襯線，外加紅白雙描邊。保留輪廓、比例、斜度與旗形；去掉雙描邊與刺繡陰影。</li>
       <li><b>兄弟 B</b>（依需求方回饋整理）：保留頂端往左上揚的起筆突起，去掉突起之後往下垂墜的波折；J 豎筆與細豎改成平行、同起於頂橫、同止於底橫基準線，不再一斜一直或懸空；兩個碗各只用一段簡潔曲線，只在腰部交會一個尖點，內空乾淨。J 形大彎鉤與瘦高右斜保留。</li>
-      <li><b>統一 UL</b>：帽標是 U 與 L 交疊的壓縮襯線雙字。保留 U、L 共用一根豎筆、L 腳向右伸、頂端短平襯線；去掉描邊。</li><li><b>富邦 G</b>：官方小尺寸用斜體草寫 G。保留斜度、頂端內捲起筆、橫筆收進右豎、尾端上揚；盾形外框屬主標誌，不放。</li><li><b>樂天 R</b>：帽盔是襯線 R，官方小格 R 下方帶弧形底線。保留襯線 R、斜腿與一道弧形底線。</li><li><b>台鋼 T</b>：帽標 T 的上橫兩端向下彎成弧形襯線。保留這個彎弧與直立豎筆、小平腳；去掉粗細對比。</li><li><b>印記呈現</b>：六隊同一規則：淺紙用可讀的隊色墨（統一橘、兄弟金在紙上太淡，分別壓深為 #a63f0b、#7d5c14），深底改用提亮的同色系（#f2606d、#C8A24A、#f0773a、#8aa6ea、#e8789a、#5cbd91）；筆畫約 3–3.9（兄弟細豎 1.1 為字形特徵）；字高落在 13–20 單位之間。重新繪製的候選，不是官方檔案或官方標誌。</li>
+      <li><b>統一 UL</b>：帽標是 U 與 L 交疊的壓縮襯線雙字。保留 U、L 共用一根豎筆、L 腳向右伸、頂端短平襯線；去掉描邊。</li><li><b>富邦 G</b>：官方小尺寸用斜體草寫 G。保留斜度、頂端內捲起筆、橫筆收進右豎、尾端上揚；盾形外框屬主標誌，不放。</li><li><b>樂天 R</b>：帽盔是襯線 R，官方小格 R 下方帶弧形底線。保留襯線 R、斜腿與一道弧形底線。</li><li><b>台鋼 T</b>：帽標 T 的上橫兩端向下彎成弧形襯線。保留這個彎弧與直立豎筆、小平腳；去掉粗細對比。</li><li><b>光學平衡</b>：依需求方「幫忙調整平衡」，只調整大小與置中、不動路徑：味全 W 先水平置中再放大 115%（字高 13.3→15.4，與 R、T 接近，20px 不再像小寫）；富邦 G 縮至 92%（墨量 15.3%→12.9%，不再搶眼）；兄弟 B 放大 105%（細筆畫在 20px 偏輕）；統一、樂天、台鋼不變。W 仍是全組筆畫最粗的一隊。</li><li><b>印記呈現</b>：六隊同一規則：淺紙用可讀的隊色墨（統一橘、兄弟金在紙上太淡，分別壓深為 #a63f0b、#7d5c14），深底改用提亮的同色系（#f2606d、#C8A24A、#f0773a、#8aa6ea、#e8789a、#5cbd91）；筆畫約 3–3.9（兄弟細豎 1.1 為字形特徵）；字高落在 13–20 單位之間。重新繪製的候選，不是官方檔案或官方標誌。</li>
     </ul>
-    <p class="ask">需要需求方確認：<b>六隊印記圖稿是否可以作為完整一組？</b><small>另需決定：味全 W 字高較矮，20px 時接近小寫 w，是否等比放大（見報告）。確認後才替換首頁、賽況、選手頁的圖示。</small></p>
+    <p class="ask">需要需求方確認：<b>六隊印記圖稿是否可以作為完整一組？</b><small>已依需求方要求做光學平衡（W 放大、G 縮小、B 微放大）。確認後才替換首頁、賽況、選手頁的圖示。</small></p>
   </section>
 </main>
 <footer class="footer"><div class="wrap">#218 隊伍圖示印記圖稿。字形特徵依官方公開頁目視參考後重新繪製，未描摹或使用官方檔案；隊名與隊色取自 <code>web/src/lib/teams.ts</code>。未經需求方批准。</div></footer>
